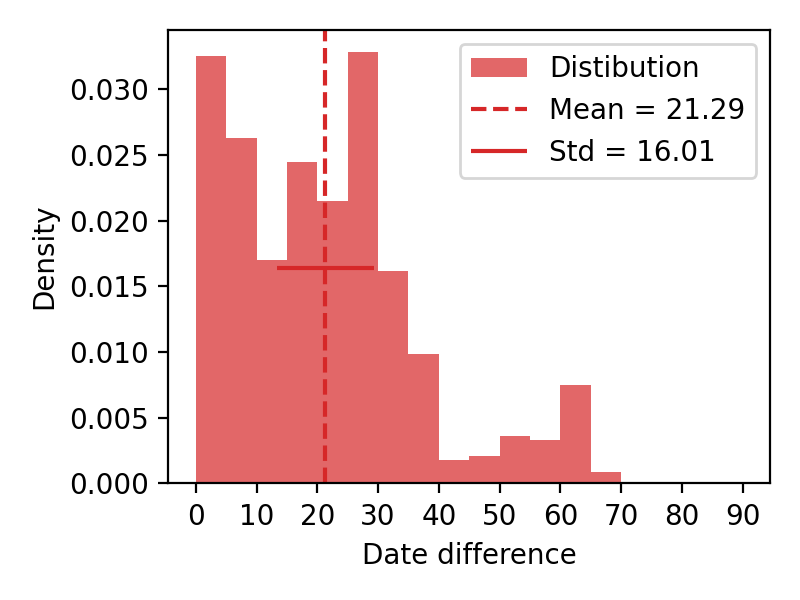
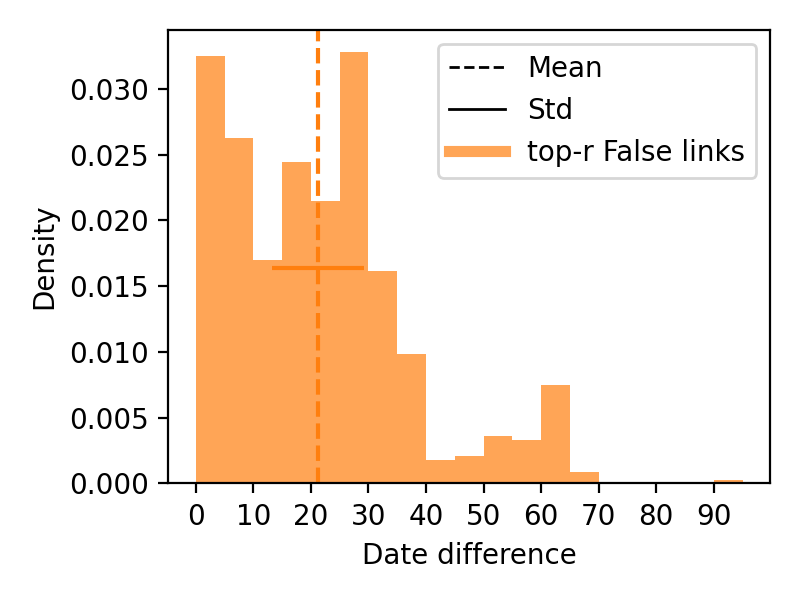
rework date differences analysis

Changed region(s): [[0.2188, 0.06, 0.9688, 0.9], [0.5312, 0.06, 0.9375, 0.3], [0.0938, 0.33, 0.1875, 0.39]]

diff --git a/report/sections/6_evaluations/2_errors.tex b/report/sections/6_evaluations/2_errors.tex
@@ -18,6 +18,14 @@ Figures~\ref{fig:mfw_vector_error} show two pairs (document 57 from Sand / docum
 To be able to understand more easily this vector, the values have been sorted by relative frequencies and using the logarithmic scale.
 When a large proportion of the vectors overlap it indicates a high similarity between the MFW vectors.
 
+Both document style are close when their feature vector are closely related.
+Visually when most the surface overlap, the distance function will give a low value, and rank this link high in the list.
+When two vectors are relatively close together determinating that two texts are from a different author can not clearly be established using only one type of representation, no matter the distance metric applied.
+The frequent errors vector pairs presented in Figure~\ref{fig:mfw_vector_error} can be visually compared actual true links and actual false links, to have a better understanding of this problematic.
+For example the most similar true link (ranked 1 using Manhattan distance) in Figure~\ref{fig:mfw_vector_first_rl} (document 157 from Stael / document 183 from Steal) or the HPrec-th (last continous correct pair from the top of the list) in Figure~\ref{fig:mfw_vector_first_last_rl} (document 22 from Gautier / document 53 from Gautier), both of these links show a large proportion of overlapping surface, like for the frequent errors vectors.
+A counter example would be the least similar false link (ranked last using Manhattan distance) which represent a negatively correlated document pair, Figure~\ref{fig:mfw_vector_last_rl} showcase this link (document 183 from Stael / document 194 from Regnier).
+As expected, most of this figure surface is non-overlapping.
+
 \begin{figure}
   \centering
   \caption{Example of 750-MFW relative frequency vectors for the two documents in a reccurant (6 rank lists out of 9) false link in the top 30 false links}
@@ -31,14 +39,6 @@ When a large proportion of the vectors overlap it indicates a high similarity be
   \label{fig:mfw_vector_error_1}
   \includegraphics[width=\linewidth]{img/mfw_vector_error_1.png}
 \end{figure}
-
-Both document style are close when their feature vector are closely related.
-Visually when most the surface overlap, the distance function will give a low value, and rank this link high in the list.
-When two vectors are relatively close together determinating that two texts are from a different author can not clearly be established using only one type of representation, no matter the distance metric applied.
-The frequent errors vector pairs presented in Figure~\ref{fig:mfw_vector_error} can be visually compared actual true links and actual false links, to have a better understanding of this problematic.
-For example the most similar true link (ranked 1 using Manhattan distance) in Figure~\ref{fig:mfw_vector_first_rl} (document 157 from Stael / document 183 from Steal) or the HPrec-th (last continous correct pair from the top of the list) in Figure~\ref{fig:mfw_vector_first_last_rl} (document 22 from Gautier / document 53 from Gautier), both of these links show a large proportion of overlapping surface, like for the frequent errors vectors.
-A counter example would be the least similar false link (ranked last using Manhattan distance) which represent a negatively correlated document pair, Figure~\ref{fig:mfw_vector_last_rl} showcase this link (document 183 from Stael / document 194 from Regnier).
-As expected, most of this figure surface is non-overlapping.
 
 \begin{figure}
   \centering
@@ -61,55 +61,60 @@ As expected, most of this figure surface is non-overlapping.
 
 When dealing with false links ranked high in the rank list, as the previous experiment showed, some excerpt use similar words.
 These shared words might be related to the era the book was written in.
-The following experiment try to investigate on this.
+The following experiment try to investigate on this by analysing the difference in publication date for the most incorrect document pairs in the rank lists.
 
-In the St-Jean dataset publication paper, the publication dates of each excepts are available~\cite{st_jean}.
-First the publication date distribution of the dataset must be understood.
-Figure~\ref{fig:dates_distribution} show the distribution of the publication date in the St-Jean dataset.
-The date difference distribution for each pair of documents can be computed, Figure~\ref{fig:dates_differences_all} showcase this.
-The average date difference in the dataset is 28.24 years with a standard deviation of 20.73 years.
-Since this dataset contain multiple excerpt from the same book, considering only the links of different authors (false links) is preferable.
-Figure~\ref{fig:dates_differences_false} shows the date difference distribution of the false links.
-As expected the mean increased from 28.24 years to 29.04 years since there are fewer links with small date difference.
-Same authors links (true links) are displayed in Figure~\ref{fig:dates_differences_r_true}, they confirm the previous statement that most of the same authors links have a low date difference with a mean of 5.11 years.
+In the St-Jean corpus publication paper, the publication dates of each excepts are available~\cite{st_jean}.
+First the publication date distribution of the corpus must be understood.
+Figure~\ref{fig:dates_distribution} show the distribution of the publication date in the St-Jean corpus.
+The corpus mainly focus on the two last thirds of the XIX century, only a few books publish between 1800 and 1830 are present.
+The date difference distribution for each pair of documents can be computed, Figure~\ref{fig:dates_differences_true_false} shows the date difference distribution for the true and false links, the union of both of them represent every possible document pairs, in this Figure the bars are stacked to represent every link.
+Table~\ref{tab:date_differences} show statistics on the distributions.
+True links have a low mean date difference of 5.11 years, this is explained by the fact that most authors in St-Jean have excepts from the same book and the authors publish their books during their career.
+For St-Jean the largest date difference from the same author (the longest career) is 31 years, which correspond to the two following books  from Victor Hugo : \textit{Notre Dame de Paris} (1831) and \textit{Les Misérables} (1862).
+The average date difference for the false links is 28.24 years with a standard deviation of 20.73 years.
+Since there is a lot more false links than true links, the overall average only drop from 29.04 years to 28.24 years.
+
+The previous statistics can be compared to Figure~\ref{fig:dates_differences_r_false} which show the date difference density on the top-r false links (670 in case of St-Jean) on a rank list with 85\% average precision (z-score fusion of the retained text representations, Table~\ref{tab:9rl_results_st_jean_A_B}).
+Two interesting information can be extracted here.
+First the mean is lower by 7.75 years (29.04 - 21.29) compared to every false links and have a narrow standard deviation distribution.
+Having a lower mean in this case indicate that less mistakes are made for document pairs with a lower date difference, which can lead to the following conclusion : publication date have an importance in documents pair ranking.
+Secondly, we can observe a drop after 35 years of date difference, which indicate that links in the interval $\left[0-35\right]$ years are harder to discriminate between a true link and a false link than links outside this interval.
+This 35 years interval can be related to the generation factor, the age of woman giving birth is around 25-34 in France~\cite{generations}, authors birth country in this corpus.
+Each new generation tend to use its own vocabulary, and thus it can be harder to discriminate the author of text belonging to the same generation, if we assume that the authors write their books at around the same age.
+In the other hand, having different vocabulary can indicate a different time period and is often used to detect document forgery~\cite{savoy_stylo}.
 
 \begin{figure}
   \centering
-  \caption{Dates and Date differences denstiy distributions on St-Jean for every excerpt}
+  \caption{Dates distribution and date differences distribution on St-Jean}
 
-  \subcaption{Date distribution}
+  \subcaption{Dates distribution}
   \label{fig:dates_distribution}
   \includegraphics[width=\linewidth]{img/dates_distribution.png}
 
-  \subcaption{Date difference denstiy distributions}
-  \label{fig:dates_differences_all}
-  \includegraphics[width=\linewidth]{img/dates_differences_all.png}
-\end{figure}
+  \subcaption{True and false links date differences distribution}
+  \label{fig:dates_differences_true_false}
+  \includegraphics[width=\linewidth]{img/dates_differences_true_false.png}
 
-\begin{figure}
-  \centering
-  \caption{Date difference denstiy distributions in St-Jean}
-
-  \subcaption{False links}
-  \label{fig:dates_differences_false}
-  \includegraphics[width=\linewidth]{img/dates_differences_false.png}
-
-  \subcaption{True links}
-  \label{fig:dates_differences_r_true}
-  \includegraphics[width=\linewidth]{img/dates_differences_r_true.png}
-
-  \subcaption{Top-r false links using a rank list with 85\% average precision.}
+  \subcaption{Top-r false links using a rank list with 85\% average precision}
   \label{fig:dates_differences_r_false}
   \includegraphics[width=\linewidth]{img/dates_differences_r_false.png}
 \end{figure}
 
-The previous statistics can be compared to Figure~\ref{fig:dates_differences_r_false} which show the date difference density on the top-r false links (670 in case of St-Jean) on a rank list with 85\% average precision (z-score fusion of the retained text representations, Table~\ref{tab:9rl_results_st_jean_A_B}).
-Two interesting information can be extracted here.
-First the mean is lower by 7.75 years (29.04 - 21.29) compared to the false links and have a narrow standard deviation distribution which clearly indicate the importance of publication date in the ranking of the documents.
-Secondly we can observe a drop after 35 years of date difference, which indicate that links in the interval $\left[0-35\right]$ years are harder to discriminate between a true link and a false link than links outside this interval.
-This 35 years interval can be related to the generation factor, the age of woman giving birth is around 25-34 in France~\cite{generations}, the birth country of the authors in this dataset.
-Each new generation tend to use its own vocabulary, and thus it can be harder to discriminate the author of text belonging to the same generation, if we assume that the authors write their books at around the same age.
-In the other hand having different vocabulary can indicate a different time period and is often used to detect document forgery~\cite{savoy_stylo}.
+\begin{table}
+  \centering
+  \caption{Date differences statistics}
+  \label{tab:date_differences}
+    \begin{tabular}{l r r}
+      \toprule
+      Links                & Mean  & Std   \\
+      \midrule
+      True links           &  5.11 &  7.06 \\
+      False links          & 29.04 & 20.58 \\
+      True and False links & 28.24 & 20.73 \\
+      top-r False links    & 21.29 & 16.00 \\
+      \bottomrule
+    \end{tabular}
+\end{table}
 
 \subsubsection{Distances matrix visualization}
 
